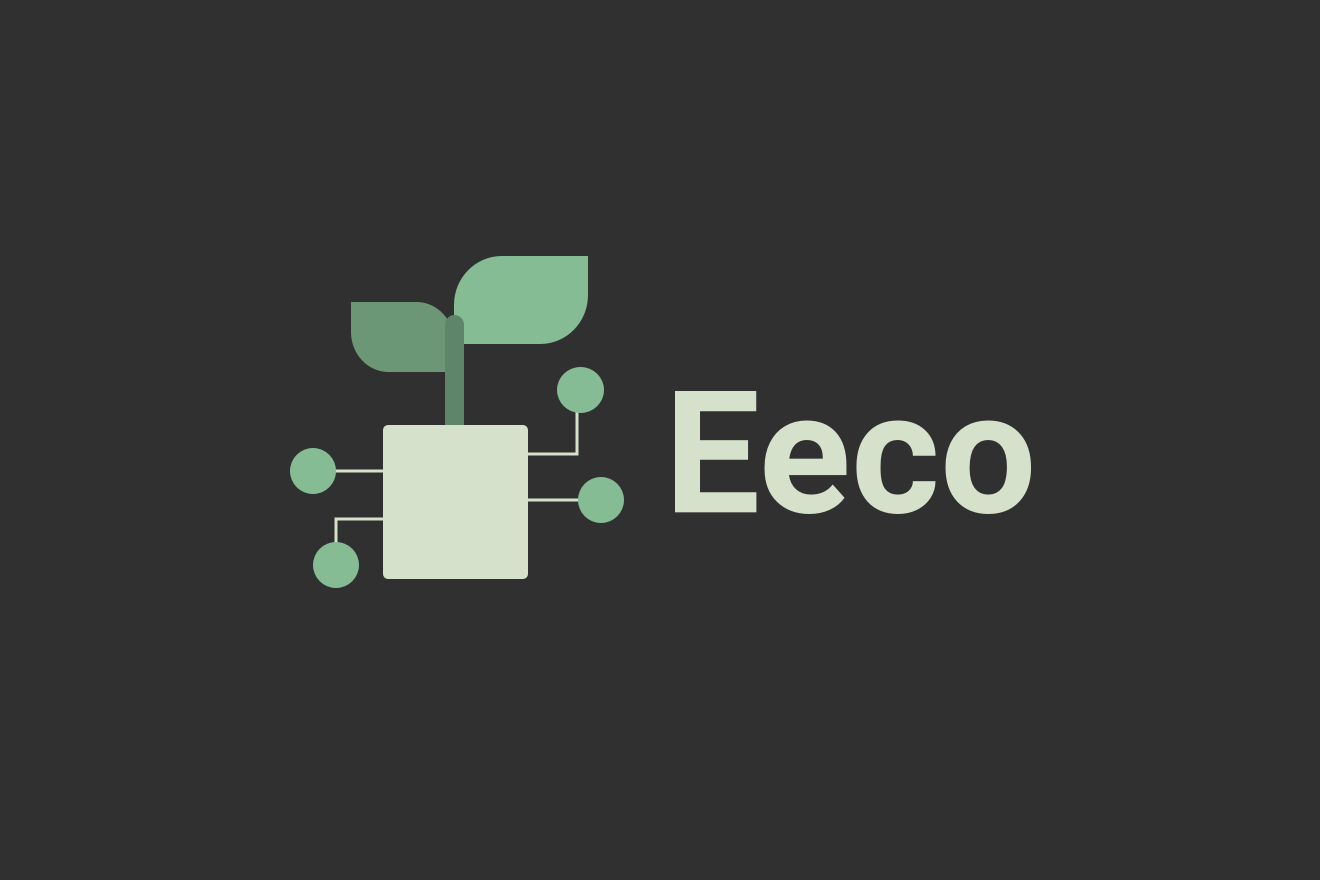
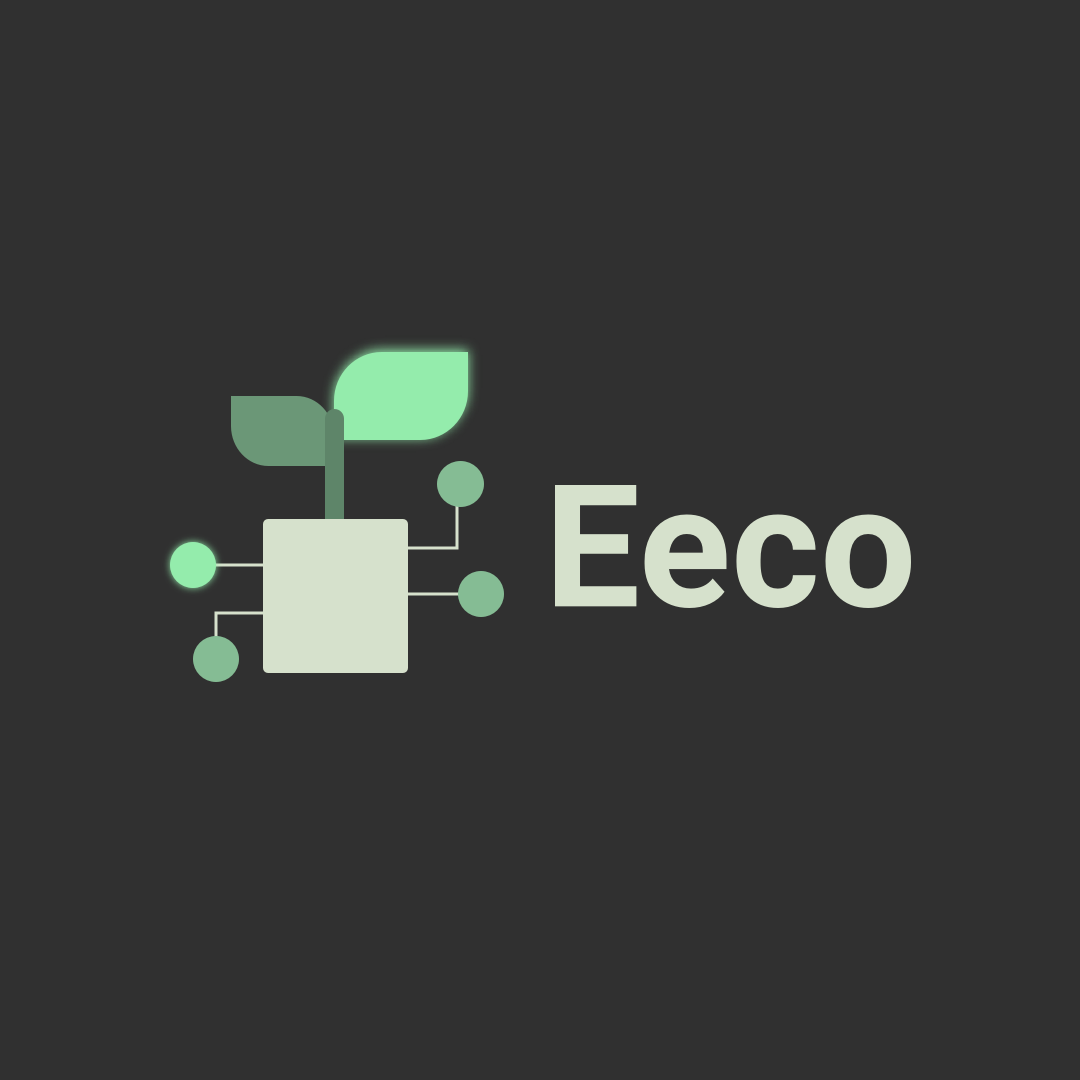
main page gif upload

Changed region(s): [[0.1528, 0.2761, 0.8556, 0.675]]

diff --git a/html/portfolio.html b/html/portfolio.html
@@ -159,7 +159,7 @@
                   <p class="mb-0">Robot AR Health Tracking</p>
                 </span>
               </span>
-                    <img class="img-fluid" src="../assets/img/cortibot.gif" alt="CortiBot">
+                    <img class="img-fluid" src="../assets/img/cortibot2.gif" alt="CortiBot">
                 </a>
             </div>
 
@@ -172,7 +172,7 @@
                   <p class="mb-0">Interaction Design, Prototyping</p>
                 </span>
               </span>
-                    <img class="img-fluid" src="../assets/img/livenationsmall.png" alt="Live Nation">
+                    <img class="img-fluid" src="../assets/img/livenation.gif" style=width:100% alt="Live Nation">
                 </a>
             </div>
 
@@ -186,7 +186,7 @@
                   <p class="mb-0">Delay Reveal Social Dating App</p>
                 </span>
               </span>
-                    <img class="img-fluid" src="../assets/img/blur.png" alt="Blur Dating">
+                    <img class="img-fluid" src="../assets/img/blur.png" style=width:100% alt="Blur Dating">
                 </a>
             </div>
 
@@ -210,7 +210,7 @@
                   <p class="mb-0">Coming soon</p>
                 </span>
               </span>
-                    <img class="img-fluid" src="../assets/img/eeco.png" alt="Blur Dating">
+                    <img class="img-fluid" src="../assets/img/eeco.gif" alt="Eeco">
                 </a>
             </div>
 

diff --git a/assets/css/brandeis.css b/assets/css/brandeis.css
@@ -17,7 +17,8 @@ pre {
     margin-inline-start: 0px;
     margin-inline-end: 0px;
     line-height: 1.5;
-    font-size:16px;
+    font-size:18px;
+    color: #545556;
 }
 ul {
   padding: 0;
@@ -238,6 +239,8 @@ a:hover {
 body {
   font-family: 'Source Sans Pro'!important; 
   height:100vh;
+  font-size:18px;
+  color: #545556;
 
 }
 

diff --git a/assets/css/cuberover.css b/assets/css/cuberover.css
@@ -30,7 +30,8 @@ pre {
     margin-inline-start: 0px;
     margin-inline-end: 0px;
     line-height: 1.5;
-    font-size:16px;
+    font-size:18px;
+    color: #545556;
 }
 ul {
   padding: 0;
@@ -180,6 +181,8 @@ a:hover {
 body {
   font-family: 'Source Sans Pro'!important; 
   height:100vh;
+  font-size:18px;
+  color: #545556;
 
 }
 

diff --git a/assets/css/cortibot.css b/assets/css/cortibot.css
@@ -18,7 +18,8 @@ pre {
     margin-inline-start: 0px;
     margin-inline-end: 0px;
     line-height: 1.5;
-    font-size:16px;
+    font-size:18px;
+    color: #545556;
 }
 ul {
   padding: 0;
@@ -244,5 +245,7 @@ a:hover {
 body {
   font-family: 'Source Sans Pro'!important; 
   height:100vh;
+  font-size:18px;
+  color: #545556;
 
 }

diff --git a/assets/css/blur.css b/assets/css/blur.css
@@ -9,6 +9,8 @@ html {
 body {
   font-family: 'Source Sans Pro' !important;
   height:100vh;
+  font-size:18px;
+  color: #545556;
 
 }
 
@@ -23,7 +25,8 @@ pre {
     margin-inline-start: 0px;
     margin-inline-end: 0px;
     line-height: 1.5;
-    font-size:16px;
+    font-size:18px;
+    color: #545556;
 }
 ul {
   padding: 0;
